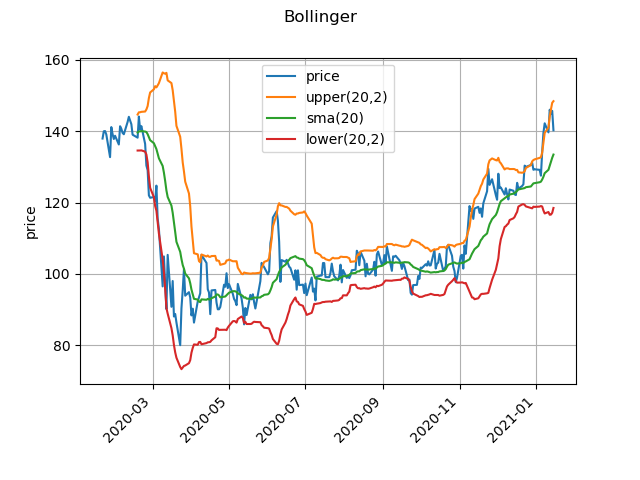
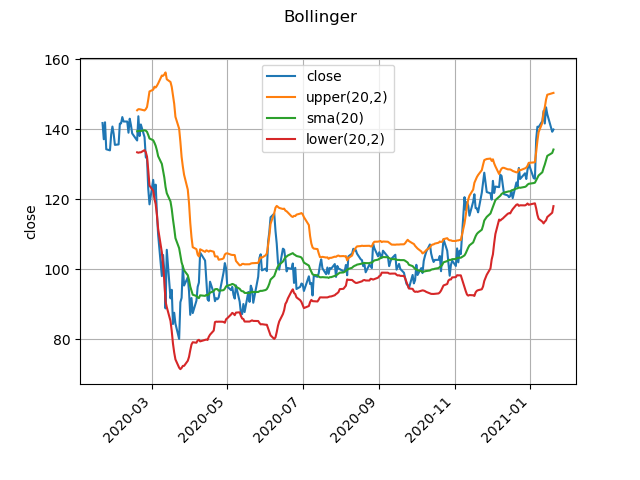
finalizing first cut of TA docs

diff --git a/practice/finance/technical_analysis.py b/practice/finance/technical_analysis.py
@@ -47,4 +47,65 @@ def stochOscillator(metric, window):
     low = metric.rolling(window).min()
     high = metric.rolling(window).max()
     tmp = metric - low
-    return tmp / high - low
+    tmp /= high - low
+    return tmp
+
+
+def rocOscillator(metric, n):
+    return metric.diff(n) / metric
+
+
+def rsiSma(metric, window):
+    return rsiBase(metric, window, funcMA=simpleMA)
+
+
+def rsiEma(metric, window):
+    return rsiBase(metric, window, funcMA=expMA)
+
+
+def rsiBase(metric, window, funcMA):
+    diff = metric.diff()
+    signs = sign(diff)
+    isPositive = (signs + 1) / 2
+    isNegative = (signs - 1).abs() / 2
+
+    gain = isPositive * diff
+    loss = isNegative * diff.abs()
+
+    avgGain = funcMA(gain, window)
+    avgLoss = funcMA(loss, window)
+
+    rsi = avgGain / avgLoss
+    rsi = 100 / (1 + rsi)
+    return 100 - rsi
+
+
+def mfi(high, low, close, volume, window):
+    tmp = mfiRatio(high, low, close, volume, window)
+    tmp += 1
+    return 100 - (100 / tmp)
+
+
+def mfiRatio(high, low, close, volume, window):
+    price = typicalPrice(high, low, close)
+    mf = rawMoneyFlow(high, low, close, volume)
+
+    diff = price.diff()
+    signs = sign(diff)
+    isPositive = (signs + 1) / 2
+    isNegative = (signs - 1).abs() / 2
+
+    mf_positive = mf * isPositive
+    mf_negative = mf * isNegative
+
+    ratio  = mf_positive.rolling(window).sum()
+    ratio /= mf_negative.rolling(window).sum()
+    return ratio
+
+
+def rawMoneyFlow(high, low, close, volume):
+    return typicalPrice(high, low, close) * volume
+
+
+def typicalPrice(high, low, close):
+    return (high + low + close) / 3

diff --git a/docs/source/technical_analysis.rst b/docs/source/technical_analysis.rst
@@ -21,16 +21,16 @@ examples presented on this page:
 
         import pandas
 
-        path = '../practice/data/jpm.csv.gz'
+        path = '../practice/data/data.csv.gz'
         DF = pandas.read_csv(path, compression='gzip')
         ix = pandas.to_datetime(DF.pop('date'))
         DF = DF.set_index(ix)
 
-        price = DF['price']
-        print(price.head())
+        price = DF['close']
+        print(DF.head())
 
 
-    .. image:: ../../images/finance/Data.png
+    .. image:: ../../images/finance/DataOhlc.png
        :align: center
 
 
@@ -57,7 +57,7 @@ a result, depicts a trenline which reacts quicker to the recent price
 movements.
 
 While there are several hyperparameters for adjusting the weights,
-the EMA function used in the examples to come takes a simple form:
+the EMA function used on this page takes a simple form:
 
     .. literalinclude:: ../../practice/finance/technical_analysis.py
        :pyobject: expMA
@@ -233,15 +233,92 @@ to help identify oversold and overbought signals.
 Stochastic
 **********
 
+    .. jupyter-execute::
+
+        stoch_window = 14
+        sma_window = 3
+
+        stoch = ta.stochOscillator(price, stoch_window)
+        sma   = ta.simpleMA(stoch, sma_window)
+
+        StochOscillator = pandas.DataFrame({
+            'price' : price,
+            f'stoch({stoch_window})': stoch,
+            f'sma({sma_window})': sma, })
+
+        print(StochOscillator.tail())
+
+
+    .. image:: ../../images/finance/StochasticOscillator.png
+       :align: center
 
 ROC
 **********
+
+Rate of Change
+
+    .. jupyter-execute::
+
+        short_n = 10
+        medium_n = 50
+        long_n = 100
+
+        RocOscillator = pandas.DataFrame({
+            'price' : price,
+            f'roc({short_n})' : ta.rocOscillator(price, short_n),
+            f'roc({medium_n})': ta.rocOscillator(price, medium_n),
+            f'roc({long_n})'  : ta.rocOscillator(price, long_n), })
+
+        print(RocOscillator.tail())
+
+
+    .. image:: ../../images/finance/RocOscillator.png
+       :align: center
+
 
 
 RSI
 **********
 
+Relative Strength Index
+
+    .. jupyter-execute::
+
+        window = 14
+
+        Rsi = pandas.DataFrame({
+            f'rsiSma({window})' : ta.rsiSma(price, window),
+            f'rsiEma({window})' : ta.rsiEma(price, window), })
+
+        print(Rsi.tail())
+
+
+    .. image:: ../../images/finance/RsiOscillator.png
+       :align: center
+
 
 MFI
 **********
 
+Money Flow Index
+
+    .. jupyter-execute::
+
+        window = 14
+
+        high   = DF['high']
+        low    = DF['low']
+        close  = DF['close']
+        volume = DF['volume']
+
+        Mfi = pandas.DataFrame({
+            'close'          : close,
+            'typical_price'  : ta.typicalPrice(high, low, close),
+            'money_flow'     : ta.rawMoneyFlow(high, low, close, volume),
+            f'mfi({window})' : ta.mfi(high, low, close, volume, window), })
+
+        print(Mfi.tail())
+
+
+    .. image:: ../../images/finance/MfiOscillator.png
+       :align: center
